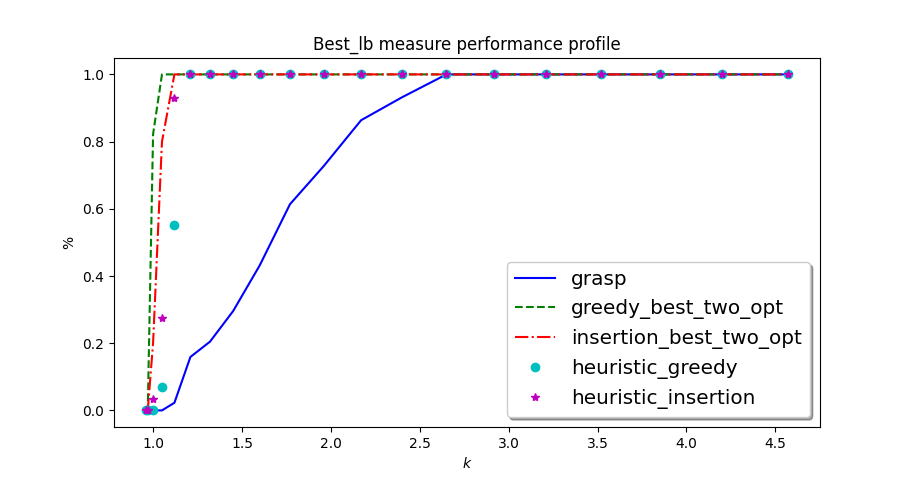
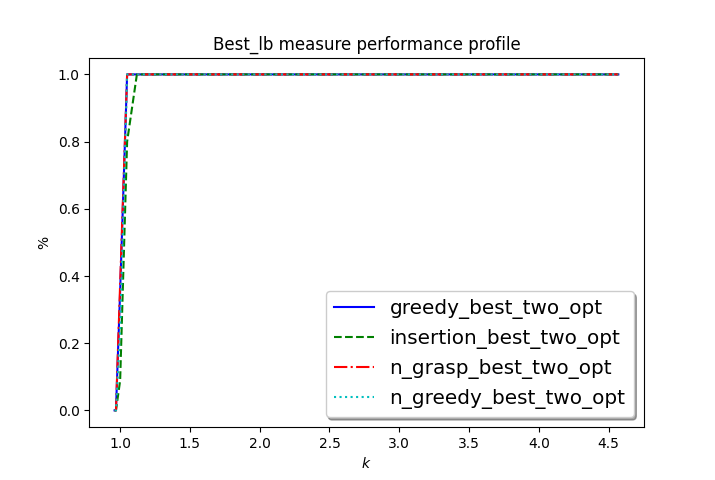
SA, mip meta, greedy refining, tabu PP

diff --git a/tsp.c b/tsp.c
@@ -59,8 +59,8 @@ char * model_name(int i) {
 		case 14: return "grasp";							// GRASP + best_two_opt
 		case 15: return "patching";							// Patching
 		case 16: return "vns";
-		case 17: return "tabu_search";						// Greedy + TABU' SEARCH (linked list version)
-		case 18: return "tabu_search_array";				// Greedy + TABU' SEARCH (array version)
+		case 17: return "n_greedy_tabu_search";				// Greedy + TABU' SEARCH (linked list version)
+		case 18: return "n_greedy_tabu_search_array";		// Greedy + TABU' SEARCH (array version)
 		case 19: return "heuristic_greedy_cplex";			// Greedy (Warm Start for CPLEX)
 		case 20: return "heuristic_greedy_cgal_cplex";		// Greedy (Warm Start for CPLEX)
 		case 21: return "heuristic_grasp_cplex";			// GRASP (Warm Start for CPLEX)
@@ -69,8 +69,8 @@ char * model_name(int i) {
 		case 24: return "genetic_algorithm";				// Genetic Algorithm
 		case 25: return "greedy_best_two_opt";
 		case 26: return "insertion_best_two_opt";
-		case 27: return "n_greedy";					// Greedy of a single tour
-		case 28: return "n_grasp";		// GRASP N_TIMES
+		case 27: return "n_greedy";							// Greedy of a single tour
+		case 28: return "n_grasp";							// GRASP N_TIMES
 		case 29: return "n_grasp_best_two_opt";
 		case 30: return "n_greedy_best_two_opt";
 		case 31: return "vns_n_greedy";
@@ -178,7 +178,7 @@ NUM			model_type				warm_start					heuristic						mip_opt							callback
 			inst->model_type = 0;
 			inst->warm_start = 3;
 			inst->heuristic = 3;
-			return "grasp";								// GRASP + best_two_opt
+			return "grasp_best_two_opt";								// GRASP + best_two_opt
 		case 15:
 			inst->model_type = 0;
 			inst->warm_start = 0;
@@ -191,38 +191,38 @@ NUM			model_type				warm_start					heuristic						mip_opt							callback
 			return "vns";	 							// VSN: GRASP + 2opt and random5opt
 		case 17:
 			inst->model_type = 0;
-			inst->warm_start = 1;
+			inst->warm_start = 5;
 			inst->heuristic = 6;
-			return "tabu_search";						// Greedy + TABU' SEARCH (Linked List version)
+			return "n_greedy_tabu_search";				// Greedy + TABU' SEARCH (Linked List version)
 		case 18:
 			inst->model_type = 0;
-			inst->warm_start = 5; //GREEDY_N_TIMES //6; // GRASP N_TIMES //1 Heuristic_Greedy;
+			inst->warm_start = 5;
 			inst->heuristic = 7;
-			return "tabu_search_array";					// Greedy + TABU' SEARCH (Array version)
+			return "n_greedy_tabu_search_array";		// Greedy + TABU' SEARCH (Array version)
 		case 19:
 			inst->model_type = 0;
 			inst->warm_start = 1;
 			inst->mip_opt = 0;
 			inst->useCplex = 1;
-			return "heuristic_greedy";					// Heuristic Greedy (Warm Start for CPLEX)
+			return "heuristic_greedy_cplex";					// Heuristic Greedy (Warm Start for CPLEX)
 		case 20:
 			inst->model_type = 0;
 			inst->warm_start = 2;
 			inst->mip_opt = 0;
 			inst->useCplex = 1;
-			return "heuristic_greedy_cgal";				// Heuristic Greedy CGAL (Warm Start for CPLEX)
+			return "heuristic_greedy_cgal_cplex";				// Heuristic Greedy CGAL (Warm Start for CPLEX)
 		case 21:
 			inst->model_type = 0;
 			inst->warm_start = 3;
 			inst->mip_opt = 0;
 			inst->useCplex = 1;
-			return "heuristic_grasp";					// Heuristic GRASP (Warm Start for CPLEX)
+			return "heuristic_grasp_cplex";					// Heuristic GRASP (Warm Start for CPLEX)
 		case 22:
 			inst->model_type = 0;
 			inst->warm_start = 4;
 			inst->mip_opt = 0;
 			inst->useCplex = 1;
-			return "heuristic_insertion";				// Heuristic Insertion (Warm Start for CPLEX)
+			return "heuristic_insertion_cplex";				// Heuristic Insertion (Warm Start for CPLEX)
 		case 23:
 			inst->model_type = 0;
 			inst->warm_start = 1;
@@ -1085,7 +1085,7 @@ int heur_greedy(CPXENVptr env, CPXLPptr lp, tspinstance* inst, int* status) {
 	int izero = 0;
 
 	for (int i = 0; i < inst->nnodes; i++) {
-	
+
 		int* sol = (int*)calloc(inst->nnodes, sizeof(int));
 		for (int k = 0; k < inst->nnodes; k++) {
 			sol[k] = -1;
@@ -1106,7 +1106,7 @@ int heur_greedy(CPXENVptr env, CPXLPptr lp, tspinstance* inst, int* status) {
 				printf("%d\n", sol[j]);
 
 		}
-		
+
 		best_lb = 0.0;
 		for (int j = 0; j < inst->nnodes - 1; j++) {
 			best_lb += dist(sol[j], sol[j + 1], inst);
@@ -2485,7 +2485,7 @@ int simulating_annealing(CPXENVptr env, tspinstance* inst, int* status) {
 	double temperature = INT_MAX;
 	double temperature_perc = 1.0;
 	double maxTemp = (double)INT_MAX + 1e8;
-	double decrease = -1;
+	double decrease = 229496729;
 	double delta = -1;
 	double delta_perc = 1.0;
 	double K = 1.0;					// Boltzmann constant
@@ -2515,8 +2515,6 @@ int simulating_annealing(CPXENVptr env, tspinstance* inst, int* status) {
 			else
 				best_sol[i] = 0.0;
 
-		random_two_opt(inst);
-
 		if (decrease != -1) {
 			if (decrease >= temperature)
 				temperature = 0;
@@ -2524,6 +2522,8 @@ int simulating_annealing(CPXENVptr env, tspinstance* inst, int* status) {
 				temperature -= decrease;
 		}
 		temperature_perc = temperature / INT_MAX;
+		random_two_opt(inst);
+
 
 		delta = inst->best_lb - best_lb;
 
@@ -2552,14 +2552,16 @@ int simulating_annealing(CPXENVptr env, tspinstance* inst, int* status) {
 					printf("LB reset from -> to : [%f] -> [%f]\n", inst->best_lb, best_lb);
 				}
 				inst->best_lb = best_lb;
-				push(&head_save, inst->best_lb, 0);
+				//push(&head_save, inst->best_lb, 0);
+				if (inst->verbose >= 1) printf("%.1lf,%lf\n", best_lb, second() - inst->init_time);
 			}else {
 				if (inst->verbose > 100) {
 					printf("BAD Moves found and Accepted\n");													// Accepted bad move
 					printf("LB update from -> to : [%f] -> [%f]\n", best_lb, inst->best_lb);
 				}
 				best_lb = inst->best_lb;
-				push(&head_save, best_lb, 0);
+				//push(&head_save, best_lb, 0);
+				if (inst->verbose >= 1) printf("%.1lf,%lf\n", best_lb, second() - inst->init_time);
 			}
 		}else {																								// good move always accepted
 			if (inst->verbose > 100) {
@@ -2567,7 +2569,8 @@ int simulating_annealing(CPXENVptr env, tspinstance* inst, int* status) {
 				printf("LB update from -> to : [%f] -> [%f]\n", best_lb, inst->best_lb);
 			}
 			best_lb = inst->best_lb;
-			push(&head_save, best_lb, 0);
+			//push(&head_save, best_lb, 0);
+			if (inst->verbose >= 1) printf("%.1lf,%lf\n", best_lb, second() - inst->init_time);
 
 			if (inst->best_lb < best_global_lb) {
 				if (inst->verbose >= 100) printf("BEST_LB update from -> to : [%f] -> [%f]\n", best_global_lb, inst->best_lb);
@@ -5004,14 +5007,14 @@ void random_two_opt(tspinstance* inst) {
 	// return random solution in inst->best_sol
 	// the improvement of best_lb is already applied to inst->best_lb
 
-	if (inst->verbose > 100) printf("Random two_opt\n");
+	if (inst->verbose > 110) printf("Random two_opt\n");
 
 	// check if current solution has only one tour
 	int* succ = (int*)calloc(inst->nnodes, sizeof(int));
 	int* comp = (int*)calloc(inst->nnodes, sizeof(int));
 	int* ncomp = (int*)calloc(1, sizeof(int));
 	build_sol(inst, succ, comp, ncomp);
-	if (inst->verbose > 100) print_succ(succ, inst);
+	if (inst->verbose > 110) print_succ(succ, inst);
 	if (*ncomp != 1) print_error("call random_two_opt with best_sol with multiple tour");
 
 	// random solution in 2opt
@@ -5043,7 +5046,7 @@ void random_two_opt(tspinstance* inst) {
 			cur_node = pre_node;
 			pre_node = succ[pre_node];
 			succ[cur_node] = suc_node;
-			if (inst->verbose > 100) print_succ(succ, inst);
+			if (inst->verbose > 110) print_succ(succ, inst);
 		}
 	}
 	inst->best_lb -= cur_improve;  // update best_lb
@@ -5058,7 +5061,7 @@ void random_two_opt(tspinstance* inst) {
 		second_node = succ[second_node];
 	}
 
-	if (inst->verbose > 100) print_succ(succ, inst);
+	if (inst->verbose > 110) print_succ(succ, inst);
 	free(succ);
 	free(comp);
 	free(ncomp);
@@ -5066,7 +5069,7 @@ void random_two_opt(tspinstance* inst) {
 
 void random_n_opt(tspinstance* inst, int n) {
 
-	if (inst->verbose >= 100) printf("RANDOM_N_OPT\n");
+	if (inst->verbose >= 110) printf("RANDOM_N_OPT\n");
 	if (inst->nnodes < n) print_error("n should be lower than the number of nodes of the problem.");
 	fflush(stdout);
 	// check if current solution has only one tour
@@ -5074,7 +5077,7 @@ void random_n_opt(tspinstance* inst, int n) {
 	int *comp = (int*) calloc(inst->nnodes, sizeof(int));
 	int *ncomp = (int*) calloc(1, sizeof(int));
 	build_sol(inst, succ, comp, ncomp);
-	if (inst->verbose >= 100) print_succ(succ, inst);
+	if (inst->verbose >= 110) print_succ(succ, inst);
 	if (*ncomp != 1) print_error("call random_n_opt with best_sol with multiple tour");
 
 	// ramdoly select n nodes and save n successor
@@ -5158,7 +5161,7 @@ void random_n_opt(tspinstance* inst, int n) {
 		}
 	}
 
-	if (inst->verbose >= 100) print_succ(succ, inst);
+	if (inst->verbose >= 110) print_succ(succ, inst);
 	fflush(stdout);
 	free(succ);
 	free(comp);
@@ -5426,7 +5429,7 @@ void build_sol_sym(tspinstance *inst, int *succ, int *comp, int *ncomp) {	// bui
 	}
 
 	// print succ, comp and ncomp
-	if (inst->verbose >= 100) {
+	if (inst->verbose >= 2000) {
 		printf("\ni:    "); for (int i = 0; i < inst->nnodes; i++) printf("%6d", i);
 		printf("\nsucc: "); for (int i = 0; i < inst->nnodes; i++) printf("%6d", succ[i]);
 		printf("\ncomp: "); for (int i = 0; i < inst->nnodes; i++) printf("%6d", comp[i]);

diff --git a/Latex/refining-heuristics.tex b/Latex/refining-heuristics.tex
@@ -4,7 +4,7 @@ In this chapter are discussed the heuristic that starting from an initial soluti
 \section{2-opt} \label{sec:best_2_opt}
 
 This heuristic is a simple and effective local search algorithm for TSP problem.\\
-A pseudo-code is proposed in alg. \ref{alg:2opt} to describe how it works. The input parameter $ T $ is an ordered list of edges that define a tour and each edge is represented with an ordered pair of nodes. The \texttt{swap\_edges()} method remove the two input edges from the tour $ T $ and add the new edges as show in fig \ref{fig:2_opt_graph}.
+A pseudo-code is proposed in alg. \ref{alg:2opt} to describe how it works. The input parameter $ T $ is an ordered list of edges that define a tour and each edge is represented with an ordered pair of nodes. The \texttt{swap\_edges} method remove the two input edges from the tour $ T $ and add the new edges as show in fig. \ref{fig:2_opt_graph}.
 
 \begin{algorithm}
 	\caption{}\label{alg:2opt}
@@ -31,48 +31,48 @@ A pseudo-code is proposed in alg. \ref{alg:2opt} to describe how it works. The i
 	\end{algorithmic}
 \end{algorithm}
 
-In the example in fig \ref{fig:2_opt_graph} the pair that has the best improvement is $ (1,4) $ and $ (5,2) $. Note that although $ (5,2) = (2,5) $ for the model, to be coherent with $ \delta_{cost} $ annotation, an orientation of the tour must be choose, and each edge must be represented with consequent ordered node pair: if $ (1,4) $ is the first considered edge, it impose the orientation of the tour.
+In the example in fig. \ref{fig:2_opt_graph} the pair that has the best improvement is $ (1,4) $ and $ (5,2) $. Note that although $ (5,2) = (2,5) $ for the model, to be coherent with $ \delta_{cost} $ annotation, an orientation of the tour must be choose, and each edge must be represented with consequent ordered node pair: if $ (1,4) $ is the first considered edge, it impose the orientation of the tour.
 
 \begin{figure}[h]
 	\centering
 	\includegraphics[width=.3\columnwidth]{img/2_opt_graph.png}
-	\caption{Example graph to explain \texttt{2\_opt()} method. The input graph is that with continuous edges. \texttt{2\_opt()} would remove $ (1,4) $ and $ (2,5) $ from the tour and replace them with $ (1,5) $ and $  (2,4) $}
+	\caption{Example graph to explain \texttt{2\_opt} method. The input graph is that with continuous edges. \texttt{2\_opt} would remove $ (1,4) $ and $ (2,5) $ from the tour and replace them with $ (1,5) $ and $  (2,4) $}
 	\label{fig:2_opt_graph}
 \end{figure}
-As can be seen in fig \ref{fig:lb_time_grasp_best_two_opt_d2103} multiple execution of \texttt{2\_opt()} can improve more than 50\% the cost of the solution before to find a local minimum. This method in the report is called \texttt{best\_two\_opt()}.
+As can be seen in fig. \ref{fig:lb_time_grasp_best_two_opt_d2103} multiple execution of \texttt{2\_opt} can improve more than 50\% the cost of the solution before to find a local minimum. This method in the report is called \texttt{best\_two\_opt}.
 \begin{figure}[!h]
 \centering
 \includegraphics[width=.6\columnwidth]{../res/lb_time_grasp_best_two_opt_d2103.png}
-\caption{Solution cost profile of \texttt{best\_two\_opt()}. \texttt{GRASP} has been used to find the first available solution.}
+\caption{Solution cost profile of \texttt{best\_two\_opt}. \texttt{GRASP} has been used to find the first available solution.}
 \label{fig:lb_time_grasp_best_two_opt_d2103}
 \end{figure}
 
-It is interesting to see the solution cost profile of \texttt{best\_two\_opt()} (fig \ref{fig:a280_25}) applied to the best of the Greedy solutions (called \texttt{greedy\_best\_two\_opt()}). The improve of the cost solution is considerable even if it stop on a local minimum.  Note that, the best tour is calculated in about $ 8 $s with \texttt{subtour\_callback\_general()}, \texttt{Greedy()} take about $ 5 $s to find the \texttt{Greedy} tours and \texttt{best\_two\_opt()} find a local minimum in $0.07$s. Moreover is important to consider that \texttt{Greedy()} method can be easily modify to execute each Greedy tour in parallel and than apply \texttt{best\_two\_opt()}.\\
-In fig.s \ref{fig:a280_10} and \ref{fig:a280_25} can be compared the \texttt{Greedy()}, \texttt{greedy\_best\_two\_opt()} and \texttt{subtour\_callback\_general()} tours, solutions cost and execution time.\\
+It is interesting to see the solution cost profile of \texttt{best\_two\_opt} (fig. \ref{fig:a280_25}) applied to the best of the Greedy solutions (called \texttt{greedy\_best\_two\_opt}). The improve of the cost solution is considerable even if it stop on a local minimum.  Note that, the best tour is calculated in about $ 8 $s with \texttt{subtour\_callback\_general}, \texttt{Greedy} take about $ 5 $s to find the \texttt{Greedy} tours and \texttt{best\_two\_opt} find a local minimum in $0.07$s. Moreover is important to consider that \texttt{Greedy} method can be easily modify to execute each Greedy tour in parallel and than apply \texttt{best\_two\_opt}.\\
+In fig.s \ref{fig:a280_10} and \ref{fig:a280_25} can be compared the \texttt{Greedy}, \texttt{greedy\_best\_two\_opt} and \texttt{subtour\_callback\_general} tours, solutions cost and execution time.\\
 
 \begin{figure}[!h]
 	\begin{subfigure}{.5\columnwidth}
 		\centering
 		\includegraphics[width=0.9\columnwidth]{../res/a280_10.png}
-		\caption{\texttt{Greedy()}: cost = 2975, time = 4s}
+		\caption{\texttt{Greedy}: cost = 2975, time = 4s}
 		\label{fig:a280_10}
 	\end{subfigure}
 	\begin{subfigure}{.5\columnwidth}
 		\centering
 		\includegraphics[width=0.9\columnwidth]{../res/a280_25.png}
-		\caption{\texttt{greedy\_best\_two\_opt()}: cost = 2685, time = 4s.}
+		\caption{\texttt{greedy\_best\_two\_opt}: cost = 2685, time = 4s.}
 		\label{fig:a280_25}
 	\end{subfigure}
 	\begin{subfigure}{.5\columnwidth}
 		\centering
 		\includegraphics[width=0.9\columnwidth]{../res/lb_greedy_best_two_opt_a280.png}
-		\caption{The profile of the solution cost over time of the \texttt{best\_two\_opt()} optimization.}
+		\caption{The profile of the solution cost over time of the \texttt{best\_two\_opt} optimization.}
 		\label{fig:lb_greedy_best_two_opt_a280}
 	\end{subfigure}
 	\begin{subfigure}{.5\columnwidth}
 		\centering
 		\includegraphics[width=0.9\columnwidth]{../res/a280_0.png}
-		\caption{\texttt{subtour\_callback\_general()}: cost = 2579, time = 8s.}
+		\caption{\texttt{subtour\_callback\_general}: cost = 2579, time = 8s.}
 		\label{fig:a280_0}
 	\end{subfigure}
 \end{figure}

diff --git a/Latex/meta-euristici.tex b/Latex/meta-euristici.tex
@@ -40,8 +40,8 @@ The slight probability of taking a step that gives higher energy is what allows 
 
 \begin{figure}[h]
 	\centering
-	\includegraphics[width=.6\columnwidth]{../res/fl1400_23.png}
-	\caption{Performance profile considering the execution time of 1400 nodes file (fl1400.tsp) with time limit of 10000}
+	\includegraphics[width=.6\columnwidth]{../res/lb_simulating_annealing_a280.png}
+	\caption{Performance profile considering the execution time of 280 nodes file (a280.tsp) with time limit of 1000}
 	\label{fig:simultaing_annealing_perform_time}
 \end{figure}
 

diff --git a/best_lb.py b/best_lb.py
@@ -13,6 +13,9 @@ def best_lb_vs_time(file_path):
             if line_count == 0:
                 line_count += 1
                 continue
+            if '...' in line:
+                break
+
             line = line.split(',')
             best_lb.append(float(line[0]))
             #time_domain.append(float(line[1][:-2]))

diff --git a/mainTSP.c b/mainTSP.c
@@ -18,7 +18,7 @@ int main(int argc, char **argv)
 
 #ifdef _WIN32
 	
-	if (1) {
+	if (0) {
 		// TEST CODE for Windows:
 
 		int folders = 3;

diff --git a/README.md b/README.md
@@ -1,2 +1,28 @@
 # OR2
-Operational Research Course Project
+
+## Operational Research Course Project
+This is the project of the Operational Research 2 course, hold by professor M. Fischetti in the Department of Engineering (DEI), University of Padua. The purpose of the project is to introduce the theoretical concept regarding the Traveling Salesman Problem (TSP) as done during the course, to describe our group implemented methods and present some comparison between each other in term of execution time and solution cost.
+
+The theoretical part of the course is divided in two big block: in the first part are introduced the exact methods to resolve the TSP, in particular some optimization of the Simplex Algorithm and its implementation with a licensed software: CPLEX; in the second part are presented different heuristics which goal is to resolve larger instances of the TSP in acceptable time at the expenses of solution cost.
+
+The most interesting part is the application of Mixed Integer Programming methods (and the CPLEX software) to resolve a specific Linear Programming problem (TSP) and the comparison of exact methods results with heuristics in terms of execution time and solution cost.
+
+## Compile
+
+### Dependency
+
+The program use IBM ILOG CPLEX, a licensed program, which can be downloaded following the [IBM instructions](https://www.ibm.com/products/ilog-cplex-optimization-studio). The program has been tested only for version 12.10.
+
+### Linux
+
+```
+make mainTSP
+```
+In makefile can be checked and modify the parameter to compile and execute `mainTSP`.
+
+### Windows
+
+## Run
+
+The parameter are passed like pair of key-value in the format `-key value`.
+H
